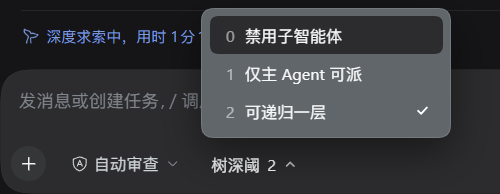
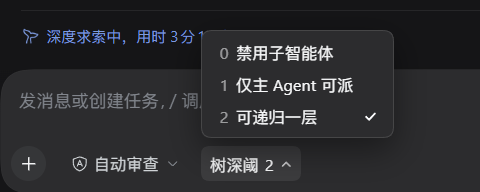
style: make hover and panel colours match the permission chip
Two colours were measurably wrong against the chip beside it:

- the hover surface used bg-layer-2, which resolves to the composer colour
  itself (#2C2C2E), so hovering changed nothing; bg-layer-4 lands on #3D3D3E,
  within one unit of the permission chip's measured #3D3D3E.
- the menu panel used bg-overlay, which rendered as a translucent light wash
  (#61666B) and took its colour from whatever sat behind it; bg-layer-1 was
  #232324, too dark. bg-layer-2 gives #2C2C2E against the permission menu's
  measured #2E2F35.

The menu is also slimmer: content width instead of a fixed 200px, 4px panel
padding, 5px row padding.

diff --git a/client.js b/client.js
@@ -68,28 +68,37 @@ window.__ModuleLoader__.load({
     };
 
     var CSS = [
-      '.sudg-root{display:inline-flex;align-items:center;gap:6px;height:28px;',
-      'padding:0 8px;border:0;border-radius:8px;background:transparent;',
+      '.sudg-root{display:inline-flex;align-items:center;gap:5px;height:28px;',
+      'padding:0 7px;border:0;border-radius:8px;background:transparent;',
       'color:var(--dsw-alias-label-primary);font:inherit;font-size:13px;',
       'line-height:1;white-space:nowrap;cursor:pointer;user-select:none;',
-      'outline:none;}',
-      '.sudg-root:hover{background:var(--dsw-alias-bg-layer-2);}',
+      'outline:none;transition:background .12s ease;}',
+      // bg-layer-2 equals the composer surface (#2C2C2E), so hovering it changed
+      // nothing. The permission chip sits on #3D3D3E when hovered, which is what
+      // the shipped hover surface token resolves to.
+      '.sudg-root:hover,.sudg-root[data-open="true"]',
+      '{background:var(--dsw-alias-bg-layer-4,rgba(255,255,255,.075));}',
       '.sudg-root:focus-visible{box-shadow:0 0 0 2px var(--dsw-alias-brand-primary);}',
-      '.sudg-root[data-open="true"]{background:var(--dsw-alias-bg-layer-2);}',
       '.sudg-root[data-failed="true"]{color:var(--dsw-alias-state-error-primary);}',
       '.sudg-chevron{flex:none;opacity:.7;transition:transform .12s ease;}',
       '.sudg-root[data-open="true"] .sudg-chevron{transform:rotate(180deg);}',
+      // Measured targets on this theme: the permission menu panel is #2E2F35,
+      // bg-overlay rendered #61666B (a translucent light wash) and bg-layer-1
+      // #232324 (too dark). bg-layer-2 lands on #2C2C2E, the closest surface.
       '.sudg-menu{position:fixed;z-index:2147483000;box-sizing:border-box;',
-      'padding:6px;border-radius:12px;border:.5px solid var(--dsw-alias-border-l2);',
-      'background:var(--dsw-alias-bg-overlay);box-shadow:0 12px 32px rgba(0,0,0,.45);}',
-      '.sudg-item{display:flex;align-items:center;gap:8px;padding:7px 10px;',
-      'border-radius:8px;color:var(--dsw-alias-label-primary);font-size:13px;',
-      'line-height:1.25;cursor:pointer;}',
-      '.sudg-item:hover,.sudg-item[data-active="true"]{background:var(--dsw-alias-bg-layer-2);}',
-      '.sudg-num{flex:none;width:10px;text-align:right;opacity:.55;',
+      'width:max-content;max-width:260px;padding:4px;border-radius:10px;',
+      'border:.5px solid var(--dsw-alias-border-l2);',
+      'background:var(--dsw-alias-bg-layer-2,#2C2C2E);',
+      'box-shadow:0 10px 26px rgba(0,0,0,.42);}',
+      '.sudg-item{display:flex;align-items:center;gap:6px;padding:5px 8px;',
+      'border-radius:6px;color:var(--dsw-alias-label-primary);font-size:13px;',
+      'line-height:1.2;white-space:nowrap;cursor:pointer;}',
+      '.sudg-item:hover,.sudg-item[data-active="true"]',
+      '{background:var(--dsw-alias-bg-layer-4,rgba(255,255,255,.075));}',
+      '.sudg-num{flex:none;width:9px;text-align:right;opacity:.55;',
       'font-variant-numeric:tabular-nums;}',
-      '.sudg-label{flex:1 1 auto;white-space:nowrap;}',
-      '.sudg-check{flex:none;opacity:0;color:var(--dsw-alias-brand-primary);}',
+      '.sudg-label{flex:1 1 auto;}',
+      '.sudg-check{flex:none;margin-left:2px;opacity:0;}',
       '.sudg-item[data-current="true"] .sudg-check{opacity:1;}',
     ].join('');
 
@@ -284,7 +293,6 @@ window.__ModuleLoader__.load({
           style: {
             left: menuBox.left + 'px',
             bottom: menuBox.bottom + 'px',
-            minWidth: MENU_WIDTH + 'px',
           },
         },
         options.map(function (option) {
